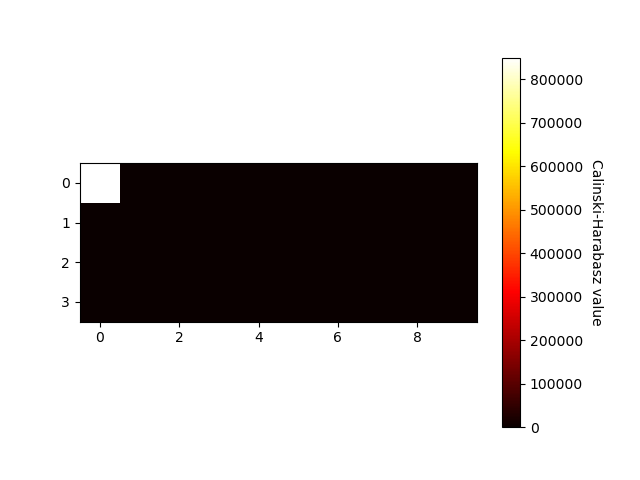
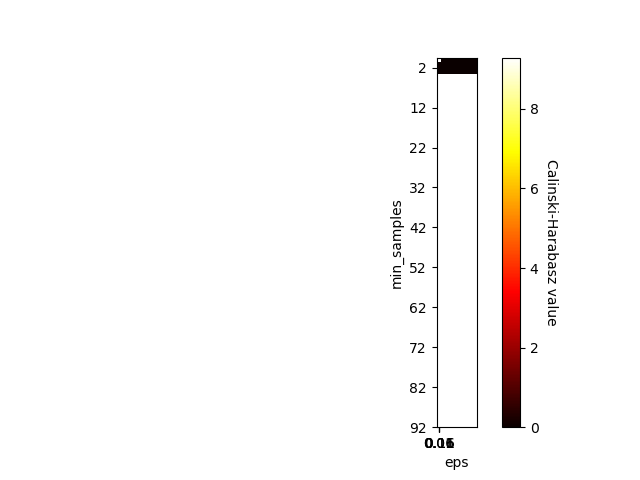
Add images

diff --git a/dbscan.py b/dbscan.py
@@ -85,12 +85,14 @@ def generate_plot(dataset, trace_time=False, max_clusters=10):
     db_all = []
     ch_all = []
     s_all = []
-    for eps in arange(0.01, 0.21, 0.05):
+    x = arange(0.01, 0.21, 0.05)
+    y = arange(2, 102, 10)
+    for eps in x:
         db = []
         ch = []
         s = []
         print(eps)
-        for min_samples in range(1, 101, 10):
+        for min_samples in y:
             db_s, ch_s, s_s = compute(dataset, datanp, eps, min_samples, trace_time=trace_time)
             db.append(db_s)
             ch.append(ch_s)
@@ -103,23 +105,39 @@ def generate_plot(dataset, trace_time=False, max_clusters=10):
     im = plt.imshow(db_all, cmap='hot', interpolation='nearest')
     cbar = ax.figure.colorbar(im, ax=ax)
     cbar.ax.set_ylabel("Davies-Bouldin value", rotation=-90, va="bottom")
+    ax.set_xticks(x)
+    plt.xlabel("eps")
+    ax.set_yticks(y)
+    plt.ylabel("min_samples")
     plt.savefig(f"db_scan/{dataset}-db-score.png")
     plt.show()
+
+
     fig, ax = plt.subplots()
     im = plt.imshow(ch_all, cmap='hot', interpolation='nearest')
     cbar = ax.figure.colorbar(im, ax=ax)
     cbar.ax.set_ylabel("Calinski-Harabasz value", rotation=-90, va="bottom")
+    ax.set_xticks(x)
+    plt.xlabel("eps")
+    ax.set_yticks(y)
+    plt.ylabel("min_samples")
     plt.savefig(f"db_scan/{dataset}-ch-score.png")
     plt.show()
+
+
     fig, ax = plt.subplots()
     im = plt.imshow(ch_all, cmap='hot', interpolation='nearest')
     cbar = ax.figure.colorbar(im, ax=ax)
     cbar.ax.set_ylabel("Calinski-Harabasz value", rotation=-90, va="bottom")
+    ax.set_xticks(x)
+    plt.xlabel("eps")
+    ax.set_yticks(y)
+    plt.ylabel("min_samples")
     plt.savefig(f"db_scan/{dataset}-s-score.png")
     plt.show()
 
 
-models = ["xclara", "cassini", "3-spiral", "golfball", "birch-rg1-score"]
+models = ["xclara", "cassini", "3-spiral", "golfball", "birch-rg1"]
 
 for dataset in models:
     generate_plot(dataset)

diff --git a/clustering_k_means.py b/clustering_k_means.py
@@ -95,7 +95,7 @@ def generate_plot(dataset, trace_time=False, max_clusters=10):
     plt.show()
 
 
-models = ["xclara", "cassini", "birch-rg1", "3-spiral"]
+models = ["xclara", "cassini", "3-spiral"]
 
 for dataset in models:
     print(dataset)
